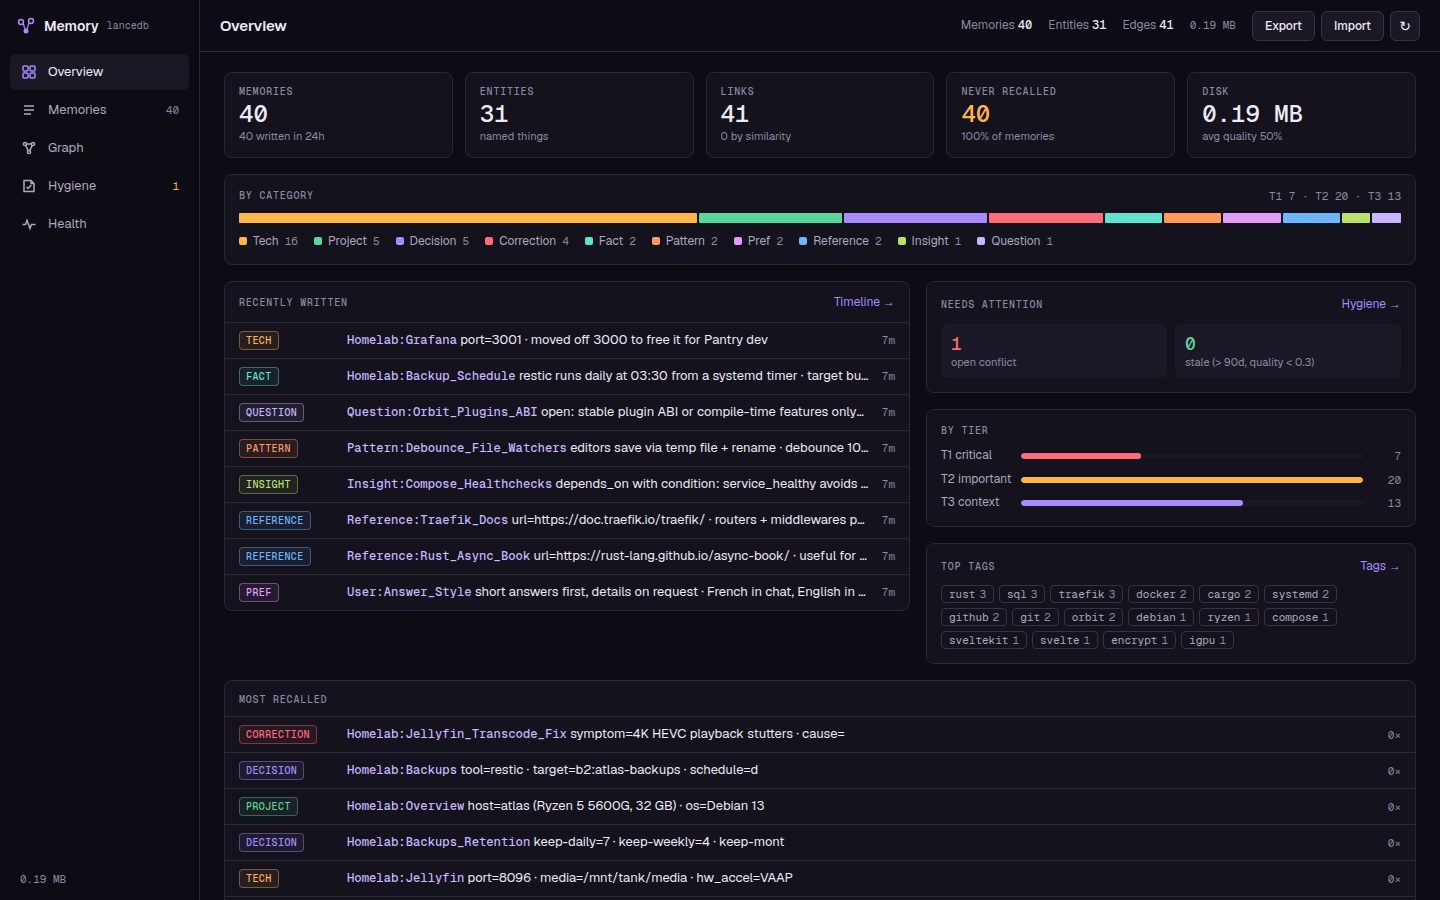
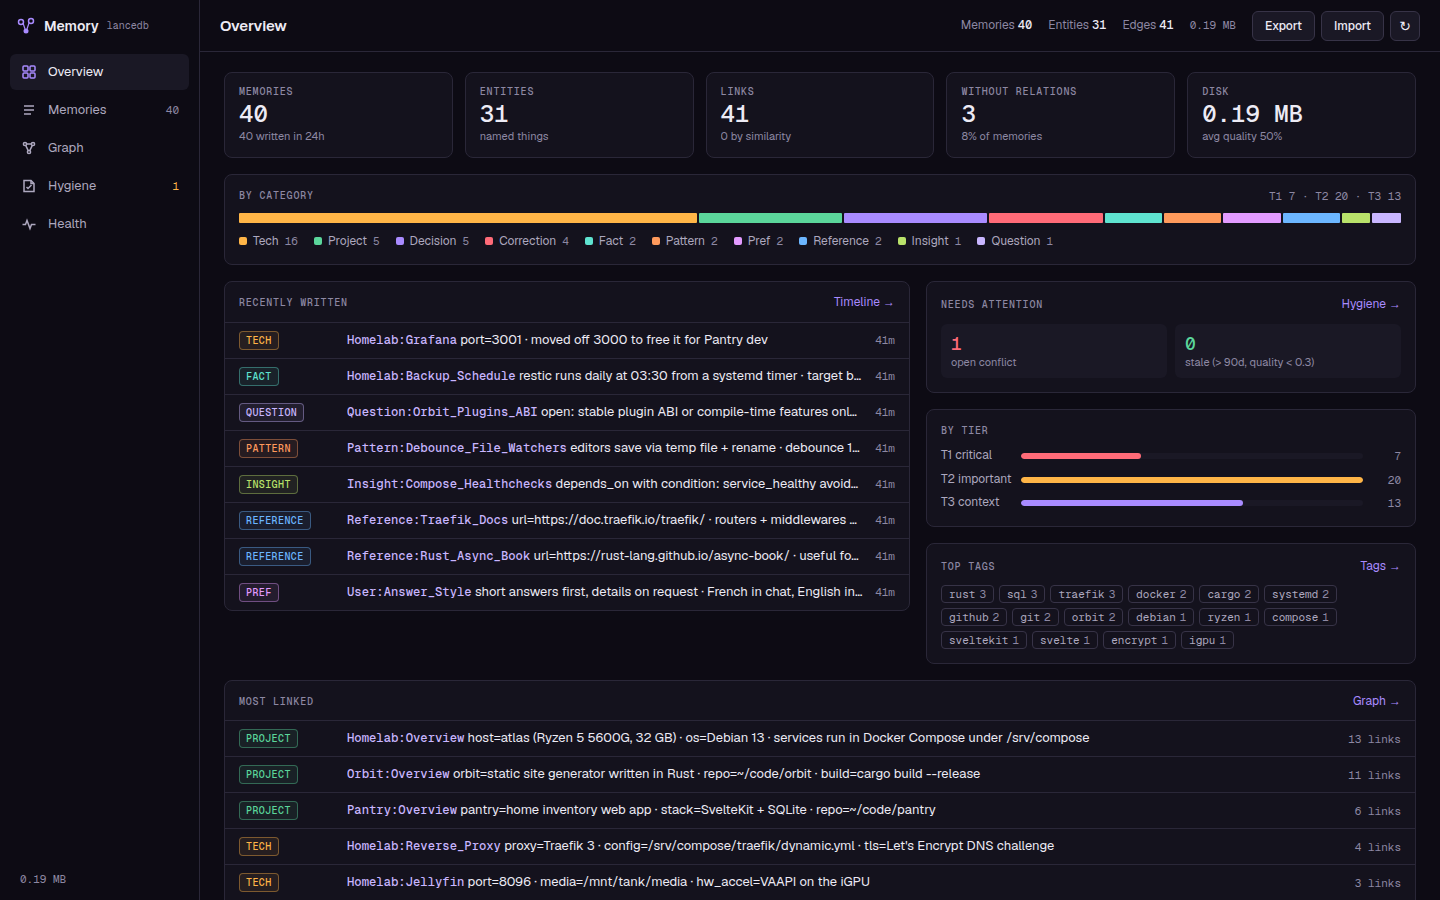
fix(viz): overview shows relations, not a frozen recall counter
Reads stopped incrementing access_count on 2026-09-11 (reads never write), so
'Never recalled' and 'Most recalled' showed frozen data as if it were live.
The overview now counts memories without any typed relation and lists the
most linked memories (usually project hubs). README, the access endpoint note
and the health-check step in the system skill say the same.

diff --git a/static/app.js b/static/app.js
@@ -152,19 +152,28 @@ async function loadDashboard() {
   const el = document.getElementById('dash-stats');
   el.innerHTML = '<div class="loading"><div class="spinner"></div><div>Loading...</div></div>';
   try {
-    const [stats, dash, timeline] = await Promise.all([
+    const [stats, dash, timeline, typed] = await Promise.all([
       fetch(API + '/stats').then(r => r.json()),
       fetch(API + '/dashboard').then(r => r.json()),
       fetch(API + '/timeline').then(r => r.json()).catch(() => []),
+      fetch(API + '/typed-edges').then(r => r.json()).catch(() => ({})),
     ]);
 
     const tiers = dash.tiers || stats.tiers || {};
     const cats = dash.categories || {};
     const ages = stats.ages || {};
-    const access = stats.access || {};
     const total = stats.total_memories || dash.total || 0;
     const fresh = (ages['<1h'] || 0) + (ages['1-24h'] || 0);
-    const never = access['0'] || 0;
+    // Typed relations, not access_count: reads stopped counting accesses on
+    // 2026-09-11 (reads never write), so a recall count would be frozen data.
+    const edges = Array.isArray(typed) ? typed : (typed.edges || []);
+    const degree = {};
+    edges.forEach(e => {
+      if (e.from) degree[e.from] = (degree[e.from] || 0) + 1;
+      if (e.to) degree[e.to] = (degree[e.to] || 0) + 1;
+    });
+    const linked = Object.keys(degree).length;
+    const unlinked = Math.max(0, total - linked);
 
     const kpi = (label, value, sub, color) =>
       '<div class="kpi"><div class="lbl">' + escapeHtml(label) + '</div>' +
@@ -174,7 +183,7 @@ async function loadDashboard() {
       kpi('Memories', fmtInt(total), fresh ? fresh + ' written in 24h' : 'none in 24h'),
       kpi('Entities', fmtInt(stats.total_entities), 'named things'),
       kpi('Links', fmtInt(stats.total_edges), fmtInt(stats.total_semantic_edges) + ' by similarity'),
-      kpi('Never recalled', fmtInt(never), total ? Math.round(never / total * 100) + '% of memories' : '', never ? 'var(--amber)' : ''),
+      kpi('Without relations', fmtInt(unlinked), total ? Math.round(unlinked / total * 100) + '% of memories' : '', total && unlinked / total > 0.3 ? 'var(--amber)' : ''),
       kpi('Disk', (stats.db_size_mb != null ? stats.db_size_mb : '?') + ' MB', 'avg quality ' + Math.round((dash.avg_quality || 0) * 100) + '%'),
     ].join('');
 
@@ -214,11 +223,15 @@ async function loadDashboard() {
       ? recent.map(m => row(m, age(m.created_at))).join('')
       : '<div class="empty-state">Nothing written yet</div>';
 
-    // Most recalled
-    const top = dash.top_accessed || [];
-    document.getElementById('dash-accessed').innerHTML = top.length
-      ? top.slice(0, 8).map(m => row(m, (m.access_count || 0) + '×')).join('')
-      : '<div class="empty-state">No recall recorded yet</div>';
+    // Most linked: the memories the graph hangs on (usually project hubs).
+    let days2 = timeline;
+    if (days2 && !Array.isArray(days2) && Array.isArray(days2.timeline)) days2 = days2.timeline;
+    const byId = {};
+    (Array.isArray(days2) ? days2 : []).forEach(g => (g.memories || []).forEach(m => { byId[m.id] = m; }));
+    const hubs = Object.entries(degree).filter(([id]) => byId[id]).sort((a, b) => b[1] - a[1]).slice(0, 8);
+    document.getElementById('dash-accessed').innerHTML = hubs.length
+      ? hubs.map(([id, n]) => row(byId[id], n + (n === 1 ? ' link' : ' links'))).join('')
+      : '<div class="empty-state">No typed relations yet</div>';
 
     // Needs attention: cheap numbers only; scans stay on their own page.
     const attention = document.getElementById('dash-attention');

diff --git a/static/index.html b/static/index.html
@@ -116,7 +116,7 @@
               <section class="card"><div class="card-head"><span class="card-title">Top tags</span><a href="#tags" class="more">Tags →</a></div><div id="dash-tags" class="chips"></div></section>
             </div>
             <section class="card flush wide">
-              <div class="card-head"><span class="card-title">Most recalled</span></div>
+              <div class="card-head"><span class="card-title">Most linked</span><a href="#graph" class="more">Graph →</a></div>
               <div id="dash-accessed" class="rows"></div>
             </section>
           </div>
@@ -361,7 +361,7 @@
 <script src="/static/graph-relations.js?1"></script>
 <script src="/static/graph.js?14"></script>
 <script src="/static/embedding-health-cache.js?1"></script>
-<script src="/static/app.js?14"></script>
+<script src="/static/app.js?15"></script>
 <script src="/static/responsive.js?3"></script>
 
 </body>

diff --git a/README.md b/README.md
@@ -475,8 +475,9 @@ visualizer, override those custom properties; the variable names of earlier vers
 
 ### Overview
 
-Totals, what was written in the last 24 hours, memories never recalled, the category and tier
-breakdown, recently written and most recalled memories, and what needs attention. Each
+Totals, what was written in the last 24 hours, memories without any typed relation, the
+category and tier breakdown, recently written and most linked memories, and what needs
+attention. Each
 attention tile counts exactly what its page lists.
 
 ![Overview](docs/screenshots/01-overview.png)
@@ -545,7 +546,7 @@ scrolls sideways. Graph filters fold behind one button.
 
 | Section | Page (URL hash) | What it shows |
 |---|---|---|
-| Overview | **Dashboard** (`#dashboard`) | totals, writes in the last 24h, never-recalled count, category and tier breakdown, recently written, most recalled, open conflicts |
+| Overview | **Dashboard** (`#dashboard`) | totals, writes in the last 24h, memories without relations, category and tier breakdown, recently written, most linked, open conflicts |
 | Memories | **Memories** (`#memories`) | paginated list (20/page), filters by category, type, tag, quality, date, and search |
 | Memories | **Timeline** (`#timeline`) | memories grouped by day |
 | Memories | **Tags** (`#tags`) | every tag with its count, plus rename, merge and delete |
@@ -605,7 +606,7 @@ POST /api/tags/delete                    — remove one tag
 POST /api/tags/merge                     — merge tags
 POST /api/maintenance/compact            — confirmed backup, compaction, and verification
 POST /api/memories/:id                   — contract-validated memory update
-POST /api/memories/:id/access            — increment access count
+POST /api/memories/:id/access            — return access_count (frozen: reads stopped counting on 2026-09-11, reads never write)
 POST /api/memories/:id/preview           — validate and render an update without writing
 ```
 

diff --git a/plugin/skills/lancedb-memory-system/SKILL.md b/plugin/skills/lancedb-memory-system/SKILL.md
@@ -229,9 +229,10 @@ already know, a few at a time, in plain words; skip the rest.
 
 **A health check to offer.** Measure, then recommend, then let the user pick:
 
-1. `curl -fsS http://127.0.0.1:7777/api/stats` - size, categories, `ages`, and
-   `access` (a large share never recalled means memories are written but not
-   found, or not worth keeping).
+1. `curl -fsS http://127.0.0.1:7777/api/stats` - size, categories, tiers, `ages`.
+   Ignore `access`: reads stopped counting accesses on 2026-09-11 (reads never
+   write), so it describes old usage only. Count memories without typed
+   relations instead (`/api/typed-edges`): a large share means an unlinked graph.
 2. `curl -fsS http://127.0.0.1:7777/api/maintenance/compact/plan` - fragments,
    FTS lag, whether maintenance is due or deferred.
 3. `curl -fsS http://127.0.0.1:7777/api/review` - format drift, contradictions,
